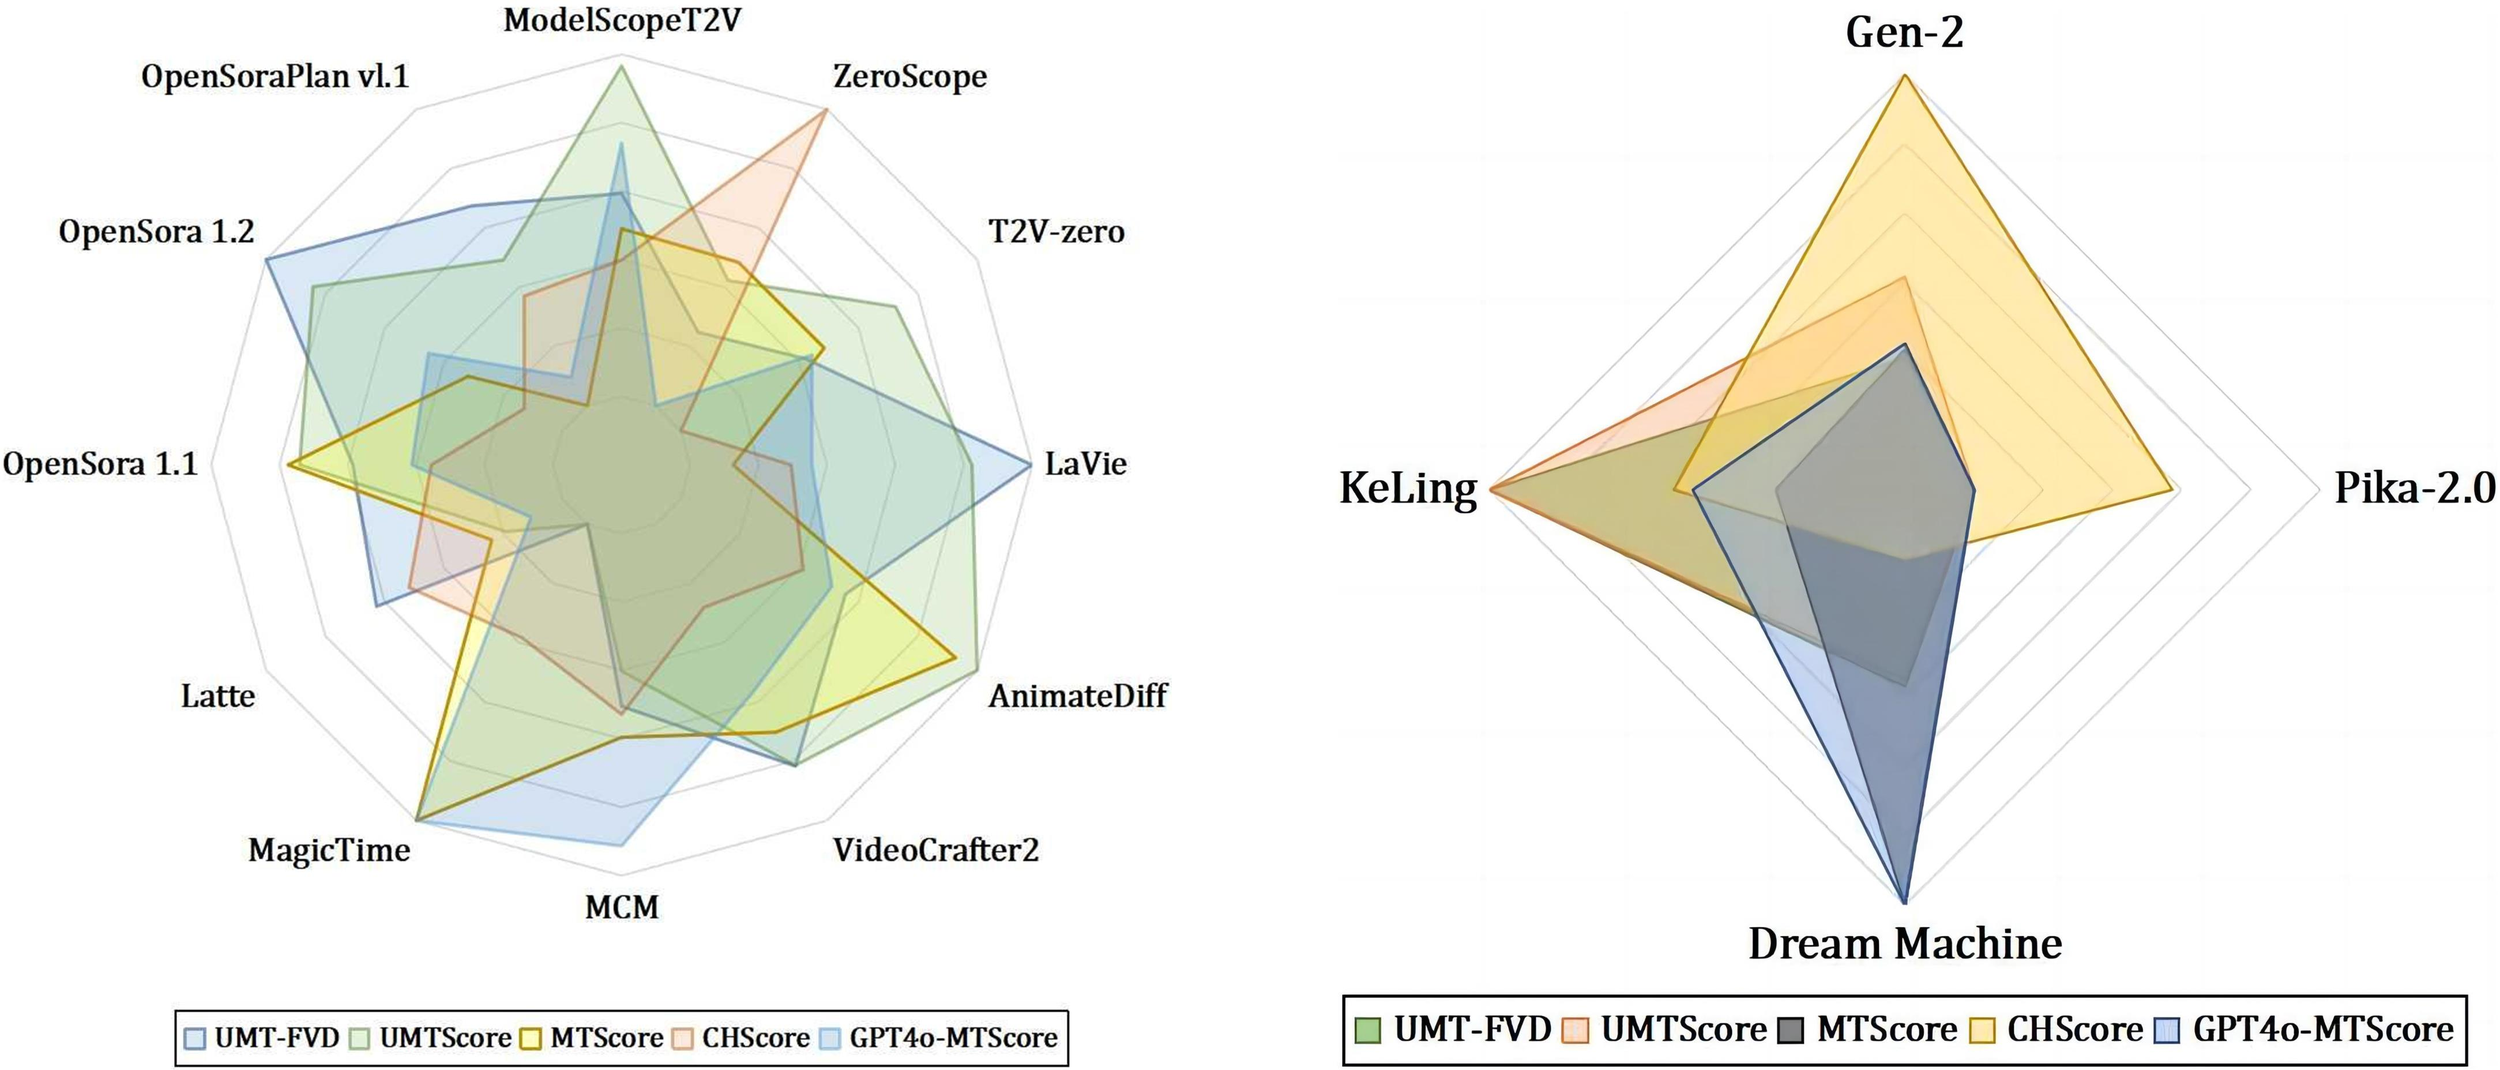
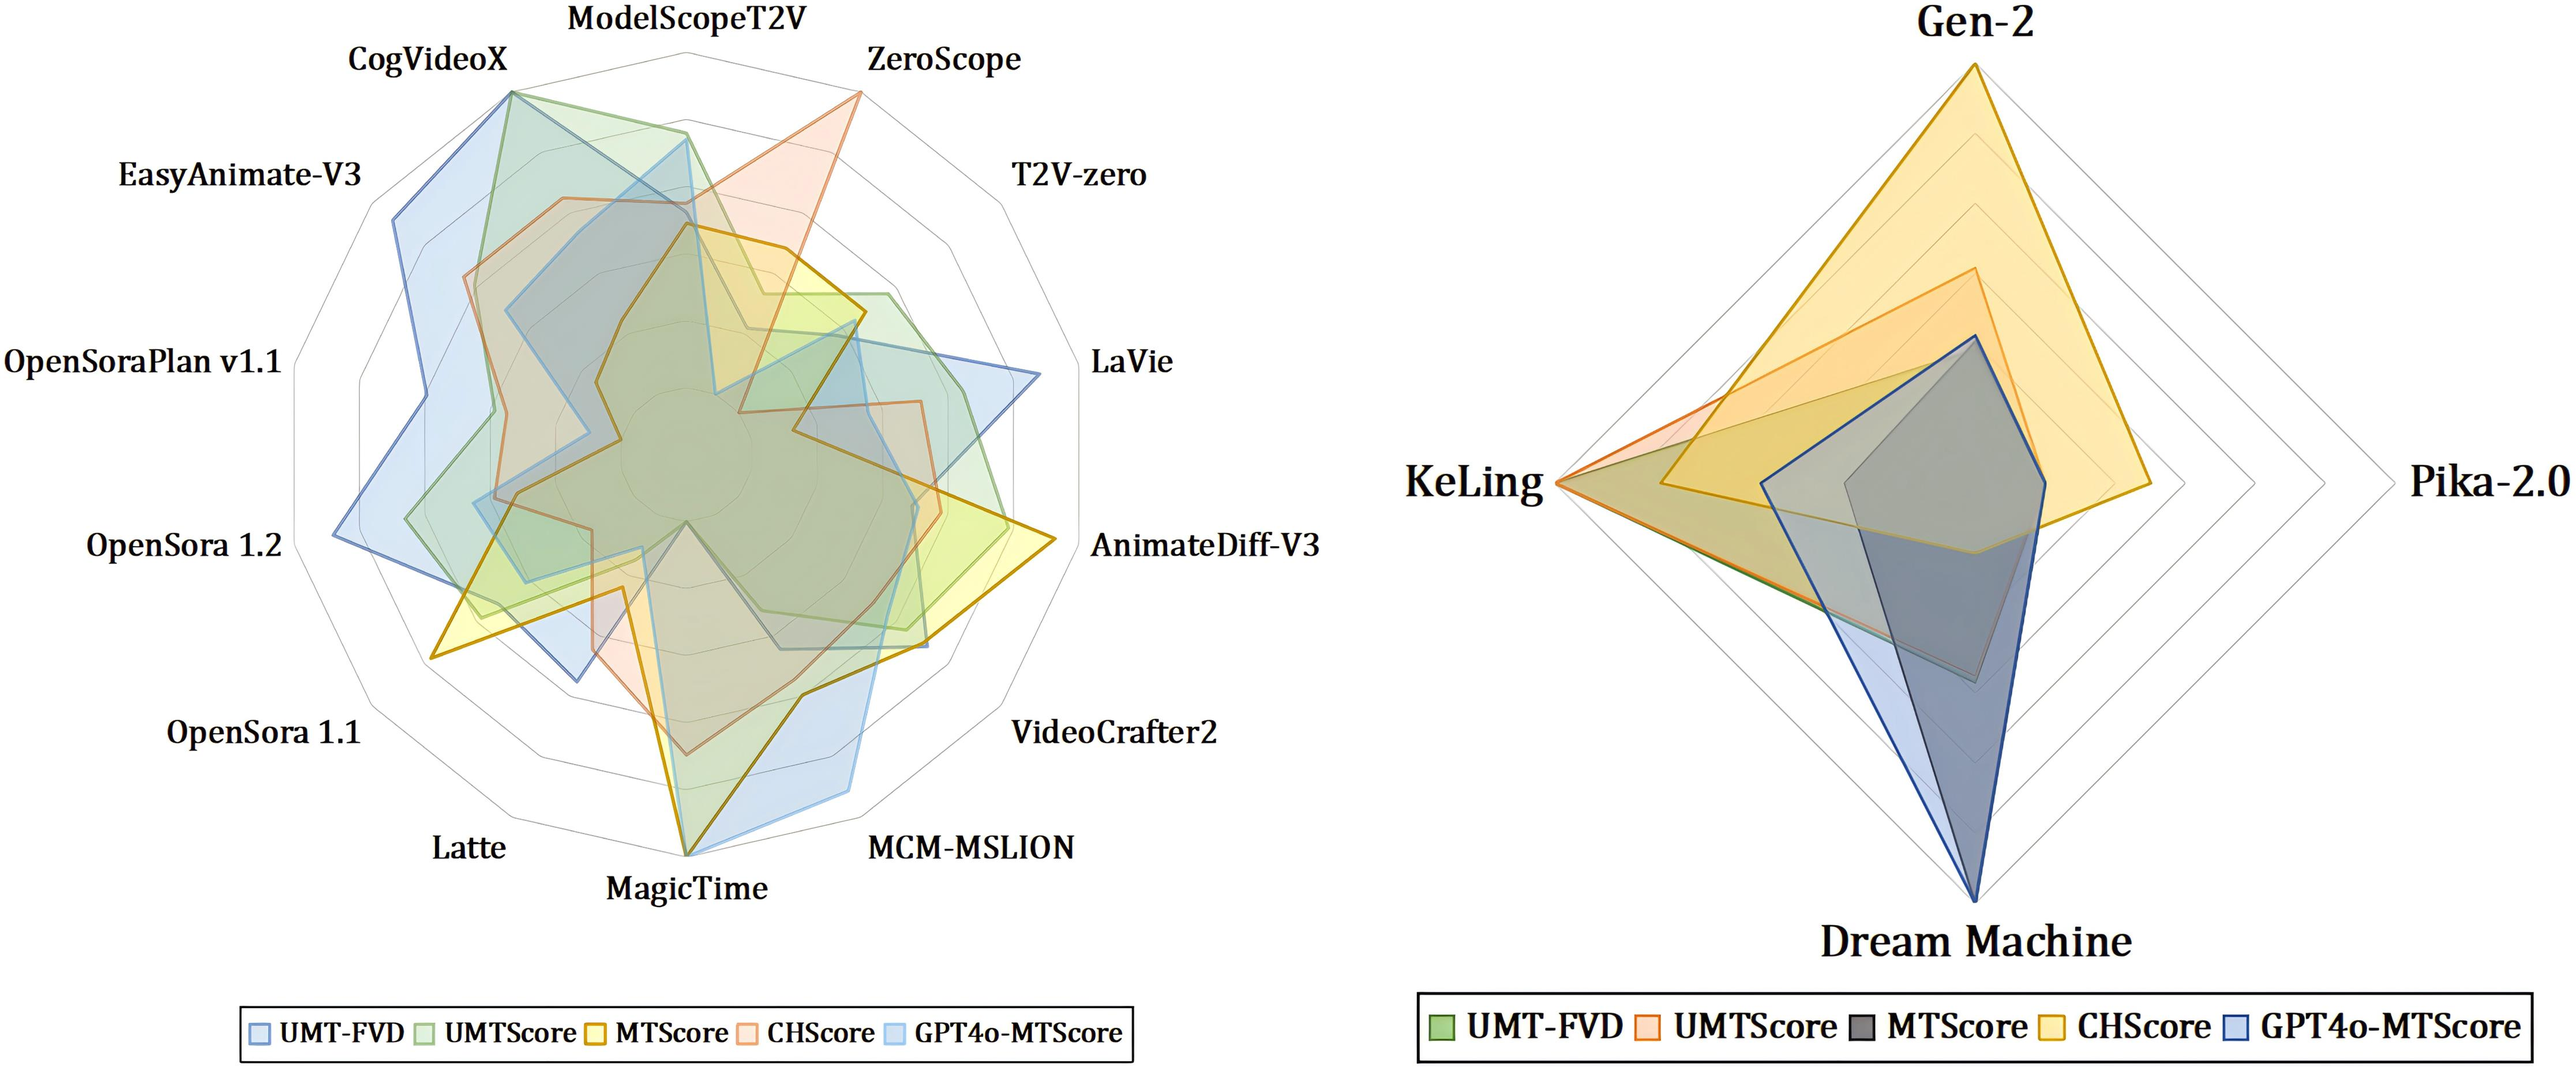
update page

diff --git a/index.html b/index.html
@@ -440,10 +440,10 @@
       <table style="width: 100%; border-collapse: collapse; font-family: Arial, sans-serif; font-size: 14px; text-align: center;">
         <thead style="background-color: #f2f2f2; border-bottom: 2px solid #ddd;">
             <tr>
-                <th style="padding: 10px;">CHScore ≈ 2.0</th>
-                <th style="padding: 10px;">CHScore ≈ 8.0</th>
-                <th style="padding: 10px;">CHScore ≈ 15.0</th>
-                <th style="padding: 10px;">CHScore ≈ 26.0</th>
+                <th style="padding: 10px;">CHScore ≈ 10.0</th>
+                <th style="padding: 10px;">CHScore ≈ 25.0</th>
+                <th style="padding: 10px;">CHScore ≈ 50.0</th>
+                <th style="padding: 10px;">CHScore ≈ 70.0</th>
             </tr>
         </thead>
         <tbody>
@@ -497,67 +497,187 @@
             </tr>
         </thead>
         <tbody>
-            <tr style="border-bottom: 1px solid #ddd;">
-                <td style="padding: 10px; font-weight: bold; vertical-align: middle;">Gen-2</td>
-                <td style="padding: 10px;"><img src="static/videos/D_0_0.gif" alt="Gen-2" style="width: 235px; height: 235px;"></td>
-                <td style="padding: 10px;"><img src="static/videos/D_0_1.gif" alt="Gen-2" style="width: 235px; height: 235px;"></td>
-                <td style="padding: 10px;"><img src="static/videos/D_0_2.gif" alt="Gen-2" style="width: 235px; height: 235px;"></td>
-            </tr>
-            <tr>
+          <tr style="border-bottom: 1px solid #ddd;">
+              <td style="padding: 10px; font-weight: bold; vertical-align: middle;">Gen-2</td>
+              <td style="padding: 10px;">
+                  <img src="static/videos/D_0_0.gif" alt="Gen-2" style="width: 235px; height: 235px;">
+                  <br>MTScore=0.21, CHScore=55.80
+              </td>
+              <td style="padding: 10px;">
+                  <img src="static/videos/D_0_1.gif" alt="Gen-2" style="width: 235px; height: 235px;">
+                  <br>MTScore=0.35, CHScore=43.03
+              </td>
+              <td style="padding: 10px;">
+                  <img src="static/videos/D_0_2.gif" alt="Gen-2" style="width: 235px; height: 235px;">
+                  <br>MTScore=0.48, CHScore=23.96
+              </td>
+          </tr>
+          <tr>
               <td style="padding: 10px; font-weight: bold; vertical-align: middle;">PiKa-2.0</td>
-                <td style="padding: 10px;"><img src="static/videos/D_1_0.gif" alt="PiKa-2.0" style="width: 235px; height: 235px;"></td>
-                <td style="padding: 10px;"><img src="static/videos/D_1_1.gif" alt="PiKa-2.0" style="width: 235px; height: 235px;"></td>
-                <td style="padding: 10px;"><img src="static/videos/D_1_2.gif" alt="PiKa-2.0" style="width: 235px; height: 235px;"></td>
-            </tr>
-            <tr>
+              <td style="padding: 10px;">
+                  <img src="static/videos/D_1_0.gif" alt="PiKa-2.0" style="width: 235px; height: 235px;">
+                  <br>MTScore=0.20, CHScore=61.93
+              </td>
+              <td style="padding: 10px;">
+                  <img src="static/videos/D_1_1.gif" alt="PiKa-2.0" style="width: 235px; height: 235px;">
+                  <br>MTScore=0.41, CHScore=24.77
+              </td>
+              <td style="padding: 10px;">
+                  <img src="static/videos/D_1_2.gif" alt="PiKa-2.0" style="width: 235px; height: 235px;">
+                  <br>MTScore=0.50, CHScore=17.67
+              </td>
+          </tr>
+          <tr>
               <td style="padding: 10px; font-weight: bold; vertical-align: middle;">KeLing</td>
-              <td style="padding: 10px;"><img src="static/videos/D_2_0.gif" alt="KeLing" style="width: 235px; height: 235px;"></td>
-              <td style="padding: 10px;"><img src="static/videos/D_2_1.gif" alt="KeLing" style="width: 235px; height: 235px;"></td>
-              <td style="padding: 10px;"><img src="static/videos/D_2_2.gif" alt="KeLing" style="width: 235px; height: 235px;"></td>
-            </tr>
-            <tr>
+              <td style="padding: 10px;">
+                  <img src="static/videos/D_2_0.gif" alt="KeLing" style="width: 235px; height: 235px;">
+                  <br>MTScore=0.19, CHScore=76.32
+              </td>
+              <td style="padding: 10px;">
+                  <img src="static/videos/D_2_1.gif" alt="KeLing" style="width: 235px; height: 235px;">
+                  <br>MTScore=0.38, CHScore=52.91
+              </td>
+              <td style="padding: 10px;">
+                  <img src="static/videos/D_2_2.gif" alt="KeLing" style="width: 235px; height: 235px;">
+                  <br>MTScore=0.47, CHScore=18.87
+              </td>
+          </tr>
+          <tr>
               <td style="padding: 10px; font-weight: bold; vertical-align: middle;">Dream Machine</td>
-              <td style="padding: 10px;"><img src="static/videos/D_3_0.gif" alt="Dream Machine" style="width: 235px; height: 235px;"></td>
-              <td style="padding: 10px;"><img src="static/videos/D_3_1.gif" alt="Dream Machine" style="width: 235px; height: 235px;"></td>
-              <td style="padding: 10px;"><img src="static/videos/D_3_2.gif" alt="Dream Machine" style="width: 235px; height: 235px;"></td>
-            </tr>
-            <tr>
+              <td style="padding: 10px;">
+                  <img src="static/videos/D_3_0.gif" alt="Dream Machine" style="width: 235px; height: 235px;">
+                  <br>MTScore=0.31, CHScore=55.35
+              </td>
+              <td style="padding: 10px;">
+                  <img src="static/videos/D_3_1.gif" alt="Dream Machine" style="width: 235px; height: 235px;">
+                  <br>MTScore=0.43, CHScore=55.15
+              </td>
+              <td style="padding: 10px;">
+                  <img src="static/videos/D_3_2.gif" alt="Dream Machine" style="width: 235px; height: 235px;">
+                  <br>MTScore=0.54, CHScore=23.31
+              </td>
+          </tr>
+          <tr>
               <td style="padding: 10px; font-weight: bold; vertical-align: middle;">AnimateDiff-V3</td>
-              <td style="padding: 10px;"><img src="static/videos/D_4_0.gif" alt="AnimateDiff-V3" style="width: 235px; height: 235px;"></td>
-              <td style="padding: 10px;"><img src="static/videos/D_4_1.gif" alt="AnimateDiff-V3" style="width: 235px; height: 235px;"></td>
-              <td style="padding: 10px;"><img src="static/videos/D_4_2.gif" alt="AnimateDiff-V3" style="width: 235px; height: 235px;"></td>
-            </tr>
-            <tr>
+              <td style="padding: 10px;">
+                  <img src="static/videos/D_4_0.gif" alt="AnimateDiff-V3" style="width: 235px; height: 235px;">
+                  <br>MTScore=0.32, CHScore=17.39
+              </td>
+              <td style="padding: 10px;">
+                  <img src="static/videos/D_4_1.gif" alt="AnimateDiff-V3" style="width: 235px; height: 235px;">
+                  <br>MTScore=0.28, CHScore=49.66
+              </td>
+              <td style="padding: 10px;">
+                  <img src="static/videos/D_4_2.gif" alt="AnimateDiff-V3" style="width: 235px; height: 235px;">
+                  <br>MTScore=0.49, CHScore=8.24
+              </td>
+          </tr>
+          <tr>
               <td style="padding: 10px; font-weight: bold; vertical-align: middle;">VideoCrafter2</td>
-              <td style="padding: 10px;"><img src="static/videos/D_5_0.gif" alt="VideoCrafter2" style="width: 235px; height: 235px;"></td>
-              <td style="padding: 10px;"><img src="static/videos/D_5_1.gif" alt="VideoCrafter2" style="width: 235px; height: 235px;"></td>
-              <td style="padding: 10px;"><img src="static/videos/D_5_2.gif" alt="VideoCrafter2" style="width: 235px; height: 235px;"></td>
-            </tr>
-            <tr>
+              <td style="padding: 10px;">
+                  <img src="static/videos/D_5_0.gif" alt="VideoCrafter2" style="width: 235px; height: 235px;">
+                  <br>MTScore=0.27, CHScore=29.45
+              </td>
+              <td style="padding: 10px;">
+                  <img src="static/videos/D_5_1.gif" alt="VideoCrafter2" style="width: 235px; height: 235px;">
+                  <br>MTScore=0.35, CHScore=24.14
+              </td>
+              <td style="padding: 10px;">
+                  <img src="static/videos/D_5_2.gif" alt="VideoCrafter2" style="width: 235px; height: 235px;">
+                  <br>MTScore=0.50, CHScore=20.05
+              </td>
+          </tr>
+          <tr>
               <td style="padding: 10px; font-weight: bold; vertical-align: middle;">MagicTime</td>
-              <td style="padding: 10px;"><img src="static/videos/D_6_0.gif" alt="MagicTime" style="width: 235px; height: 235px;"></td>
-              <td style="padding: 10px;"><img src="static/videos/D_6_1.gif" alt="MagicTime" style="width: 235px; height: 235px;"></td>
-              <td style="padding: 10px;"><img src="static/videos/D_6_2.gif" alt="MagicTime" style="width: 235px; height: 235px;"></td>
-            </tr>
-            <tr>
+              <td style="padding: 10px;">
+                  <img src="static/videos/D_6_0.gif" alt="MagicTime" style="width: 235px; height: 235px;">
+                  <br>MTScore=0.49, CHScore=33.96
+              </td>
+              <td style="padding: 10px;">
+                  <img src="static/videos/D_6_1.gif" alt="MagicTime" style="width: 235px; height: 235px;">
+                  <br>MTScore=0.34, CHScore=14.28
+              </td>
+              <td style="padding: 10px;">
+                  <img src="static/videos/D_6_2.gif" alt="MagicTime" style="width: 235px; height: 235px;">
+                  <br>MTScore=0.51, CHScore=33.56
+              </td>
+          </tr>
+          <tr>
               <td style="padding: 10px; font-weight: bold; vertical-align: middle;">OpenSoraPlan v1.1</td>
-              <td style="padding: 10px;"><img src="static/videos/D_7_0.gif" alt="OpenSoraPlan v1.1" style="width: 235px; height: 235px;"></td>
-              <td style="padding: 10px;"><img src="static/videos/D_7_1.gif" alt="OpenSoraPlan v1.1" style="width: 235px; height: 235px;"></td>
-              <td style="padding: 10px;"><img src="static/videos/D_7_2.gif" alt="OpenSoraPlan v1.1" style="width: 235px; height: 235px;"></td>
-            </tr>
-            <tr>
+              <td style="padding: 10px;">
+                  <img src="static/videos/D_7_0.gif" alt="OpenSoraPlan v1.1" style="width: 235px; height: 235px;">
+                  <br>MTScore=0.17, CHScore=63.38
+              </td>
+              <td style="padding: 10px;">
+                  <img src="static/videos/D_7_1.gif" alt="OpenSoraPlan v1.1" style="width: 235px; height: 235px;">
+                  <br>MTScore=0.18, CHScore=10.14
+              </td>
+              <td style="padding: 10px;">
+                  <img src="static/videos/D_7_2.gif" alt="OpenSoraPlan v1.1" style="width: 235px; height: 235px;">
+                  <br>MTScore=0.31, CHScore=14.59
+              </td>
+          </tr>
+          <tr>
               <td style="padding: 10px; font-weight: bold; vertical-align: middle;">OpenSora 1.1</td>
-              <td style="padding: 10px;"><img src="static/videos/D_8_0.gif" alt="OpenSora 1.1" style="width: 235px; height: 235px;"></td>
-              <td style="padding: 10px;"><img src="static/videos/D_8_1.gif" alt="OpenSora 1.1" style="width: 235px; height: 235px;"></td>
-              <td style="padding: 10px;"><img src="static/videos/D_8_2.gif" alt="OpenSora 1.1" style="width: 235px; height: 235px;"></td>
-            </tr>
-            <tr>
+              <td style="padding: 10px;">
+                  <img src="static/videos/D_8_0.gif" alt="OpenSora 1.1" style="width: 235px; height: 235px;">
+                  <br>MTScore=0.19, CHScore=49.39
+              </td>
+              <td style="padding: 10px;">
+                  <img src="static/videos/D_8_1.gif" alt="OpenSora 1.1" style="width: 235px; height: 235px;">
+                  <br>MTScore=0.15, CHScore=28.01
+              </td>
+              <td style="padding: 10px;">
+                  <img src="static/videos/D_8_2.gif" alt="OpenSora 1.1" style="width: 235px; height: 235px;">
+                  <br>MTScore=0.21, CHScore=19.07
+              </td>
+          </tr>
+          <tr>
               <td style="padding: 10px; font-weight: bold; vertical-align: middle;">OpenSora 1.2</td>
-              <td style="padding: 10px;"><img src="static/videos/D_9_0.gif" alt="OpenSora 1.2" style="width: 235px; height: 235px;"></td>
-              <td style="padding: 10px;"><img src="static/videos/D_9_1.gif" alt="OpenSora 1.2" style="width: 235px; height: 235px;"></td>
-              <td style="padding: 10px;"><img src="static/videos/D_9_2.gif" alt="OpenSora 1.2" style="width: 235px; height: 235px;"></td>
-            </tr>
-        </tbody>
+              <td style="padding: 10px;">
+                  <img src="static/videos/D_9_0.gif" alt="OpenSora 1.2" style="width: 235px; height: 235px;">
+                  <br>MTScore=0.13, CHScore=55.89
+              </td>
+              <td style="padding: 10px;">
+                  <img src="static/videos/D_9_1.gif" alt="OpenSora 1.2" style="width: 235px; height: 235px;">
+                  <br>MTScore=0.22, CHScore=8.45
+              </td>
+              <td style="padding: 10px;">
+                  <img src="static/videos/D_9_2.gif" alt="OpenSora 1.2" style="width: 235px; height: 235px;">
+                  <br>MTScore=0.41, CHScore=8.40
+              </td>
+          </tr>
+          <tr>
+            <td style="padding: 10px; font-weight: bold; vertical-align: middle;">EasyAnimate-V3</td>
+            <td style="padding: 10px;">
+                <img src="static/videos/D_10_0.gif" alt="EasyAnimate-V3" style="width: 235px; height: 235px;">
+                <br>MTScore=0.22, CHScore=51.44
+            </td>
+            <td style="padding: 10px;">
+                <img src="static/videos/D_10_1.gif" alt="EasyAnimate-V3" style="width: 235px; height: 235px;">
+                <br>MTScore=0.42, CHScore=11.65
+            </td>
+            <td style="padding: 10px;">
+                <img src="static/videos/D_10_2.gif" alt="EasyAnimate-V3" style="width: 235px; height: 235px;">
+                <br>MTScore=0.44, CHScore=9.68
+            </td>
+        </tr>
+        <tr>
+          <td style="padding: 10px; font-weight: bold; vertical-align: middle;">CogVideoX</td>
+          <td style="padding: 10px;">
+              <img src="static/videos/D_11_0.gif" alt="CogVideoX" style="width: 235px; height: 235px;">
+              <br>MTScore=0.30, CHScore=20.91
+          </td>
+          <td style="padding: 10px;">
+              <img src="static/videos/D_11_1.gif" alt="CogVideoX" style="width: 235px; height: 235px;">
+              <br>MTScore=0.45, CHScore=45.92
+          </td>
+          <td style="padding: 10px;">
+              <img src="static/videos/D_11_2.gif" alt="CogVideoX" style="width: 235px; height: 235px;">
+              <br>MTScore=0.46, CHScore=6.47
+          </td>
+      </tr>
+      </tbody>      
     </table>    
     </div>
   </div>
